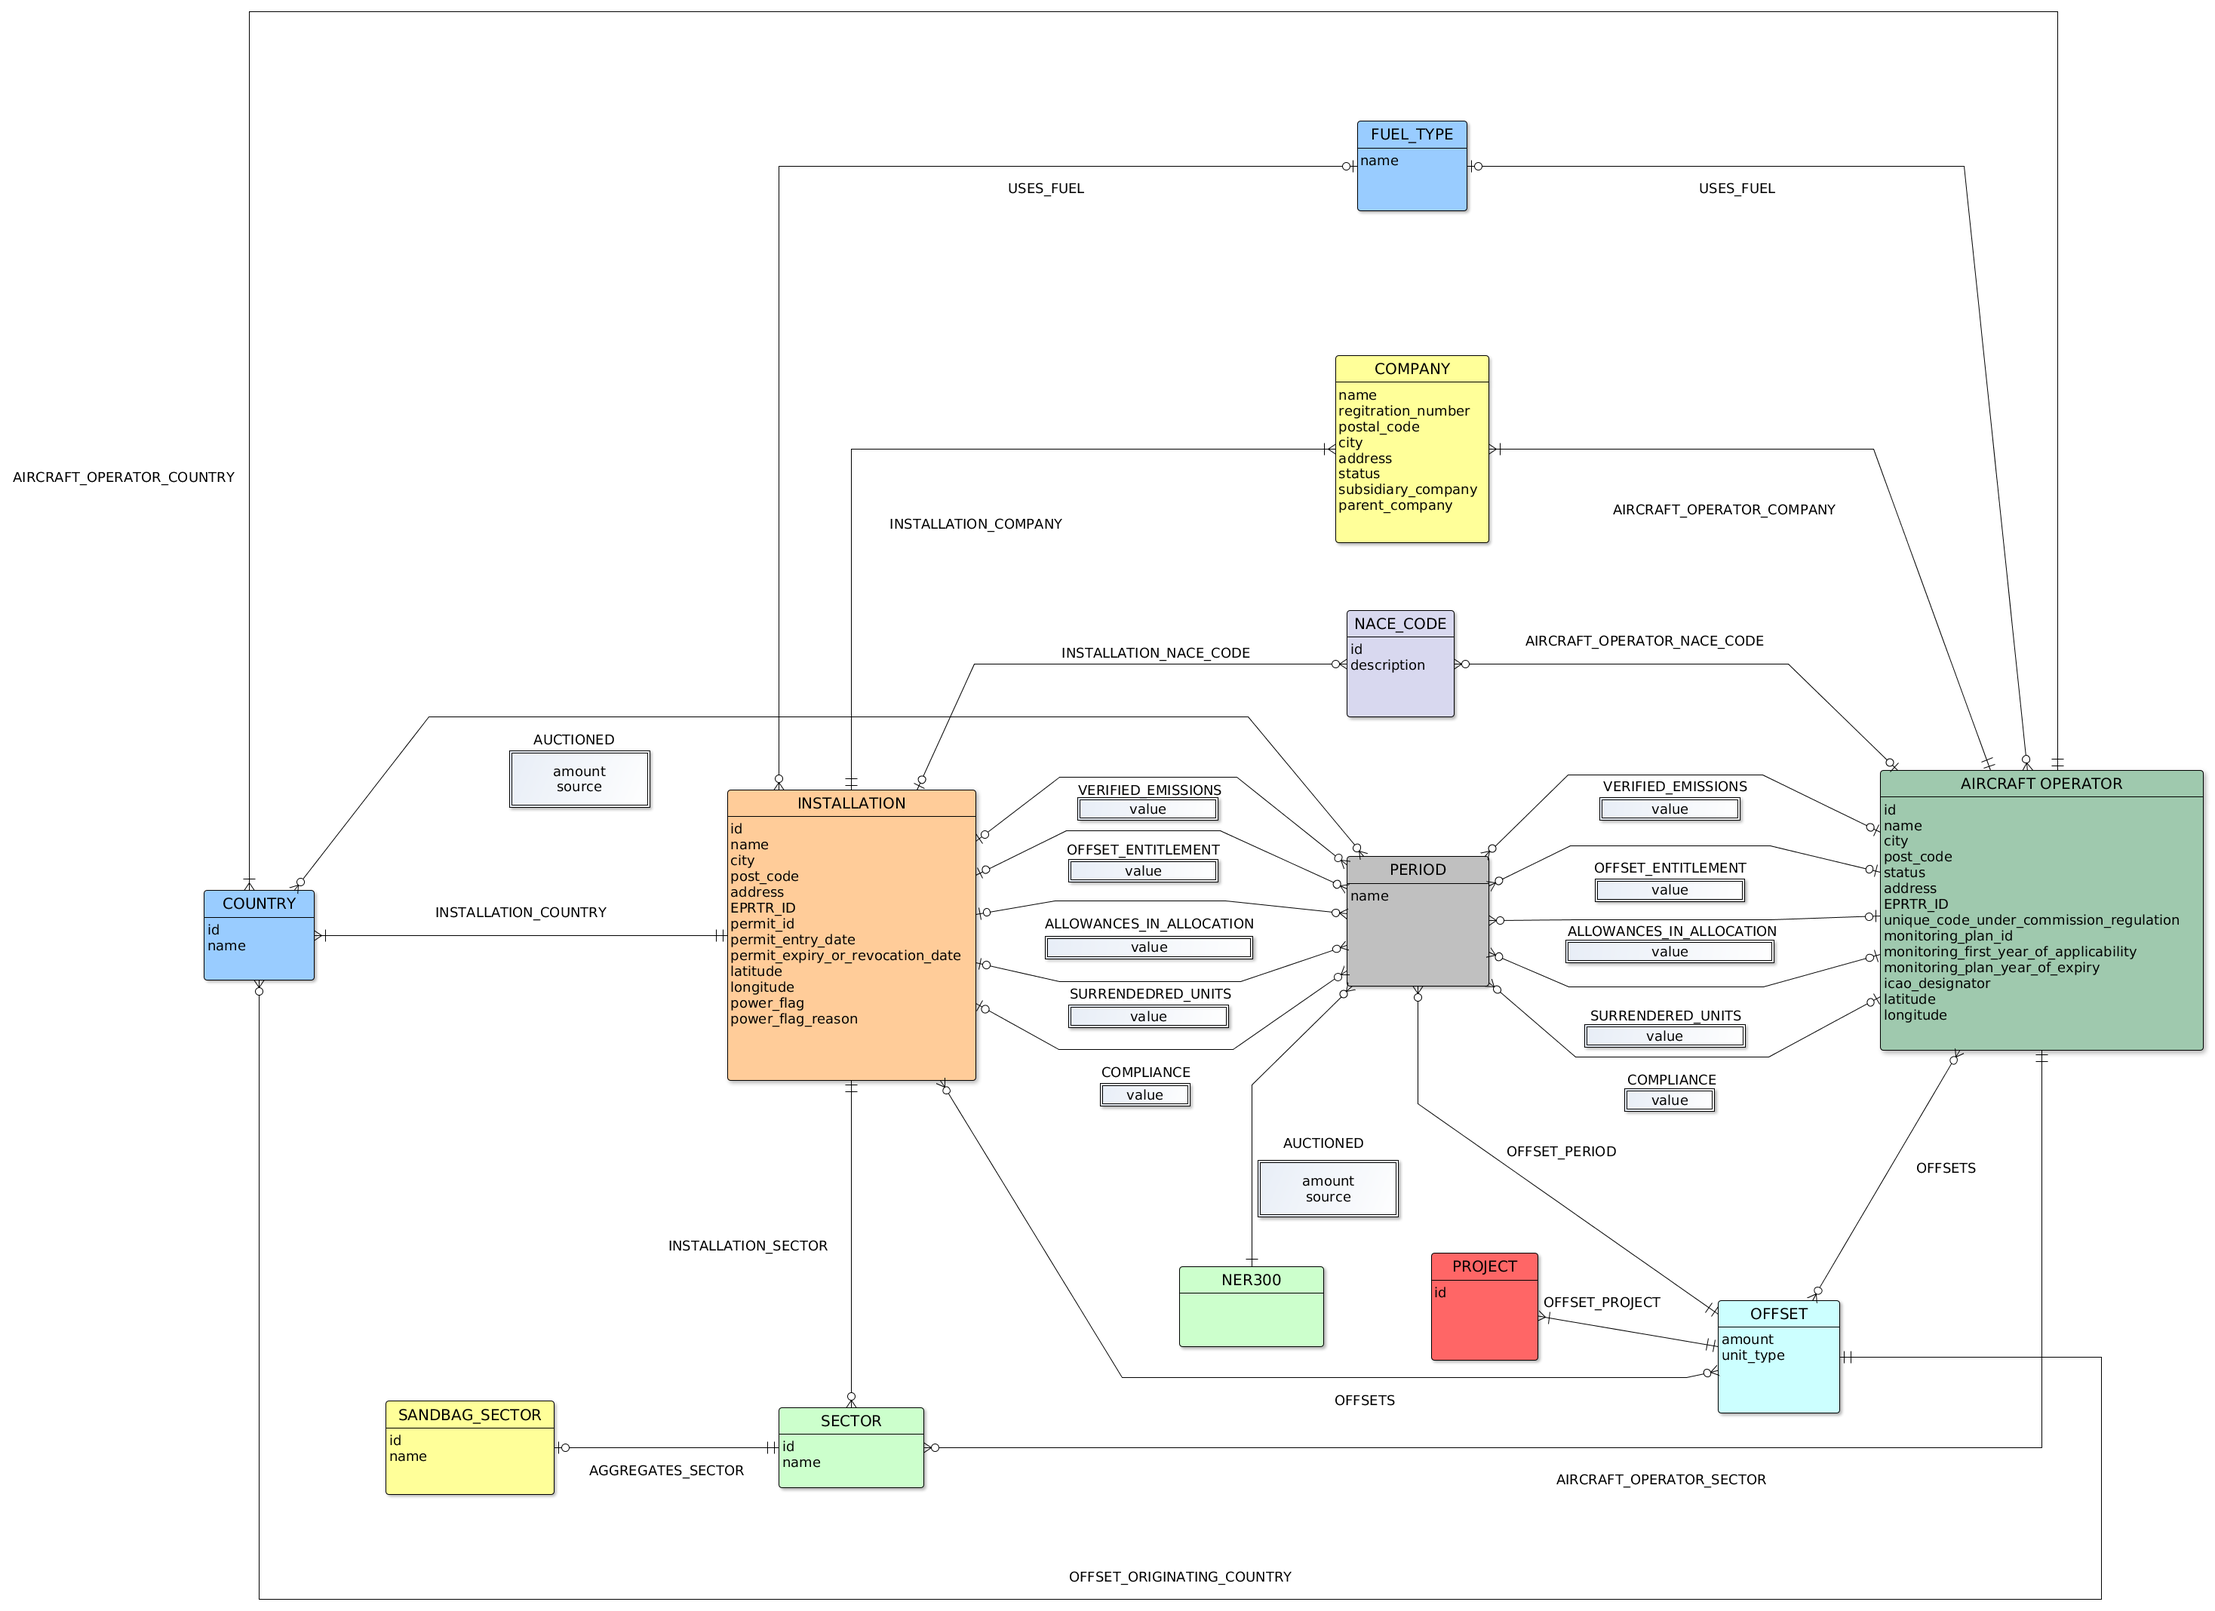
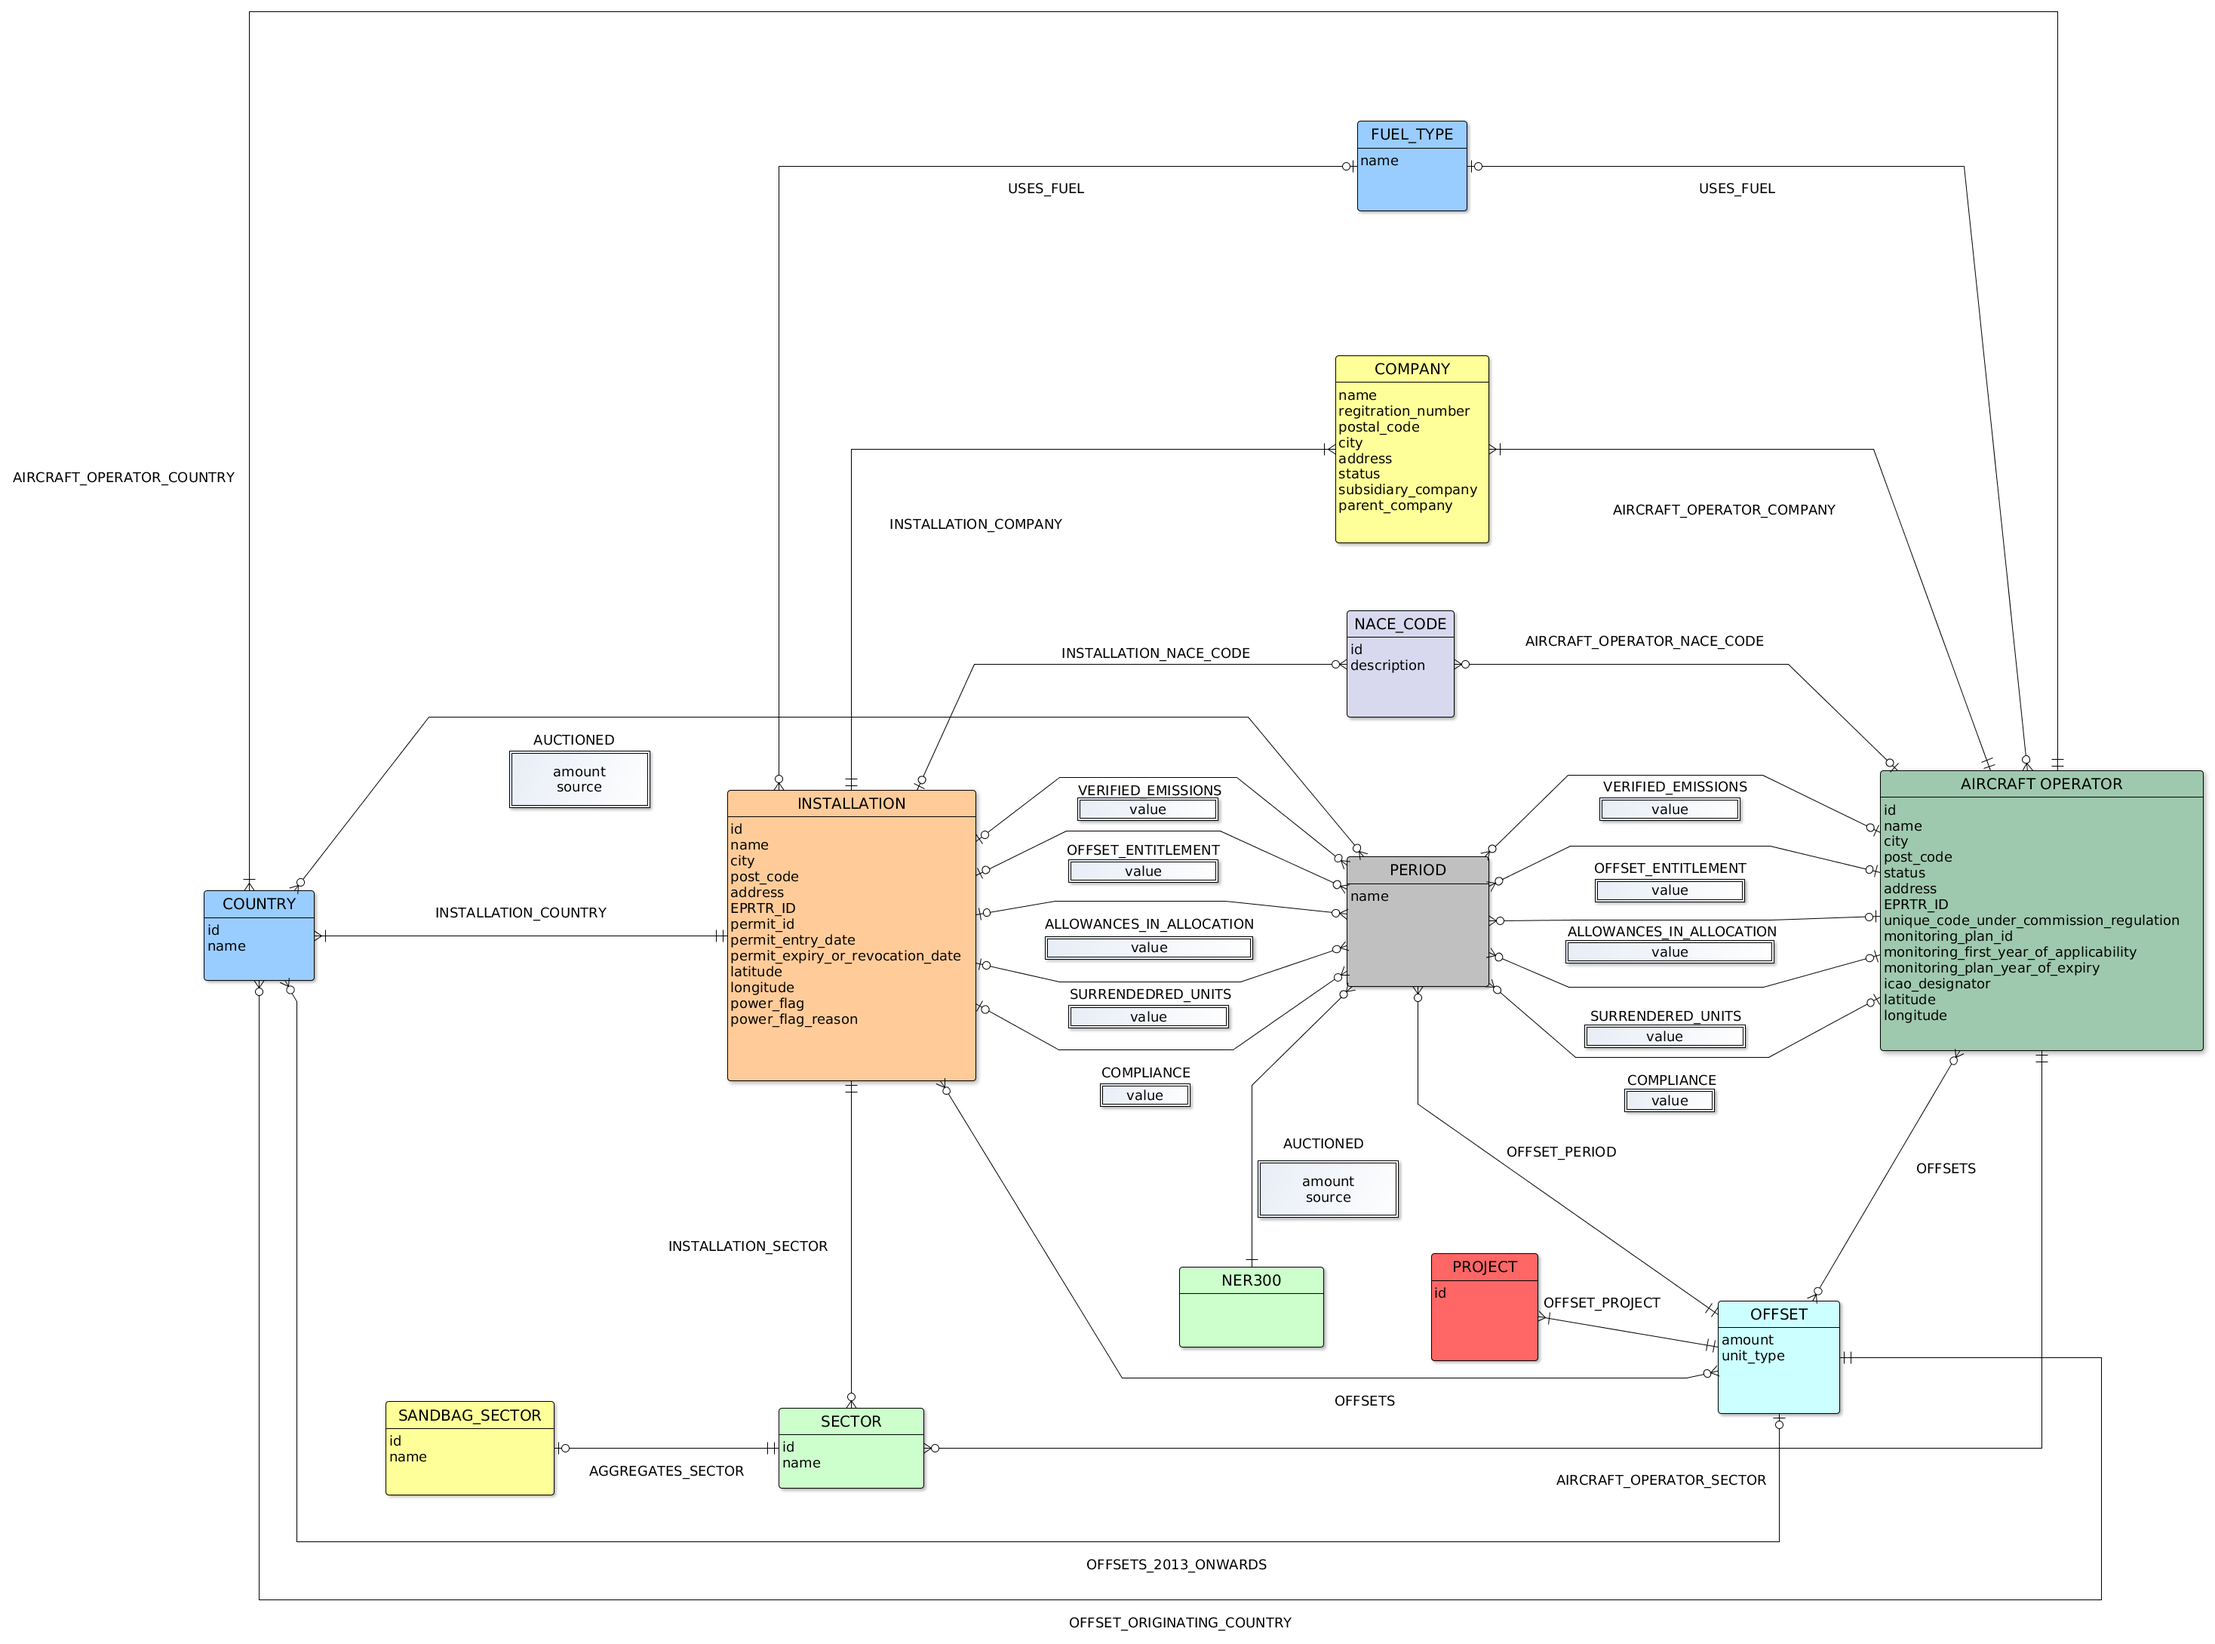
updating data model diagram plus new program to import offsets 2013 onwards

diff --git a/src/main/java/org/sandbag/programs/ImportOffsets2013Onwards.java b/src/main/java/org/sandbag/programs/ImportOffsets2013Onwards.java
@@ -1,0 +1,55 @@
+package org.sandbag.programs;
+
+import org.sandbag.util.Executable;
+
+import java.io.BufferedReader;
+import java.io.File;
+import java.io.FileReader;
+import java.util.List;
+
+/**
+ * Created by root on 20/05/16.
+ */
+public class ImportOffsets2013Onwards implements Executable{
+
+    public static void main(String[] args){
+
+        if(args.length != 2){
+            System.out.println("This program expects the following parameters: \n" +
+                    "1. Database folder \n" +
+                    "2. Offsets TSV file");
+        }else{
+
+            String dbFolder = args[0];
+            String offsetsFileSt = args[1];
+
+            try{
+
+                BufferedReader reader = new BufferedReader(new FileReader(new File(offsetsFileSt)));
+
+                String line;
+
+                while((line = reader.readLine()) != null){
+
+                    String[] columns = line.split("\t");
+
+                    String offsetTypeSt = columns[2].trim();
+                    String periodSt = columns[3].trim();
+                    String amount = columns[4].trim();
+                    String referenceSt = columns[5].trim();
+                }
+
+                reader.close();
+
+            }catch (Exception e){
+                e.printStackTrace();
+            }
+        }
+
+    }
+
+    @Override
+    public void execute(List<String> args) {
+        main(args.toArray(new String[0]));
+    }
+}
